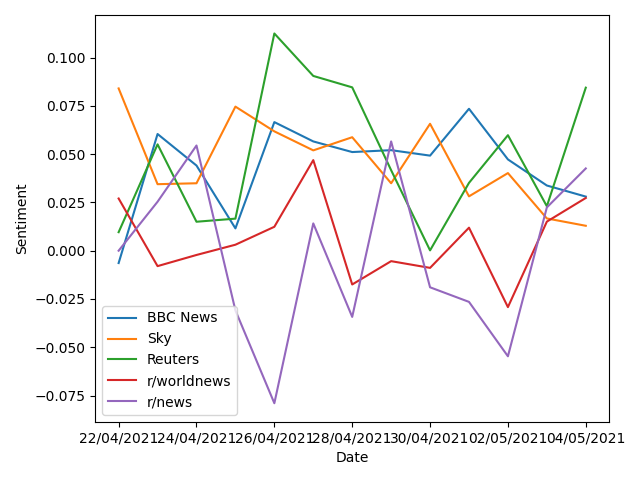
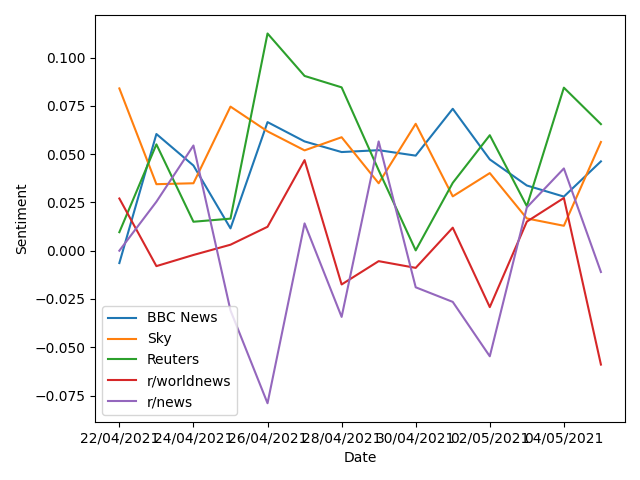
Automatic update (gitControl.py)

Changed region(s): [[0.1875, 0.0625, 0.9375, 0.8438], [0.125, 0.875, 0.9688, 0.9688], [0.1875, 0.1875, 0.2188, 0.2188]]

diff --git a/README.md b/README.md
@@ -3,7 +3,7 @@
 World news sentiment data, updated at 07:00 daily.
 
 **Started:** `22/04/2021`<br>
-**Updated:** `04/05/2021, 07:00:39`<br>
+**Updated:** `05/05/2021, 07:00:48`<br>
 **Sources:** `BBC News, Sky, Reuters, r/worldnews, r/news`
 
 <img src="https://user-images.githubusercontent.com/25552804/115932698-55adef00-a485-11eb-82bb-2265c0821ca0.png" width="20%" height="20%">

diff --git a/docs/index.md b/docs/index.md
@@ -3,7 +3,7 @@
 World news sentiment data, updated at 07:00 daily.
 
 **Started:** `22/04/2021`<br>
-**Updated:** `04/05/2021, 07:00:39`<br>
+**Updated:** `05/05/2021, 07:00:48`<br>
 **Sources:** `BBC News, Sky, Reuters, r/worldnews, r/news`
 
 <img src="https://user-images.githubusercontent.com/25552804/115932698-55adef00-a485-11eb-82bb-2265c0821ca0.png" width="20%" height="20%">
